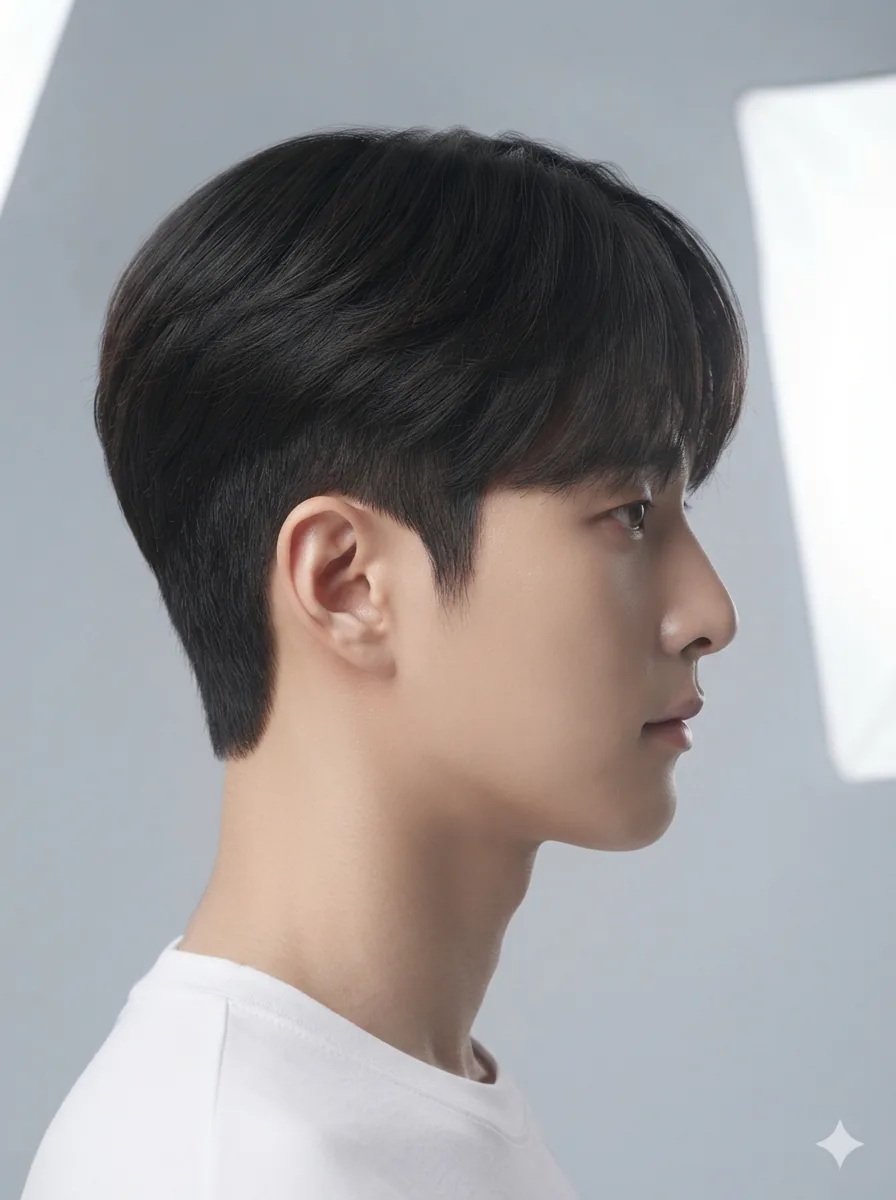
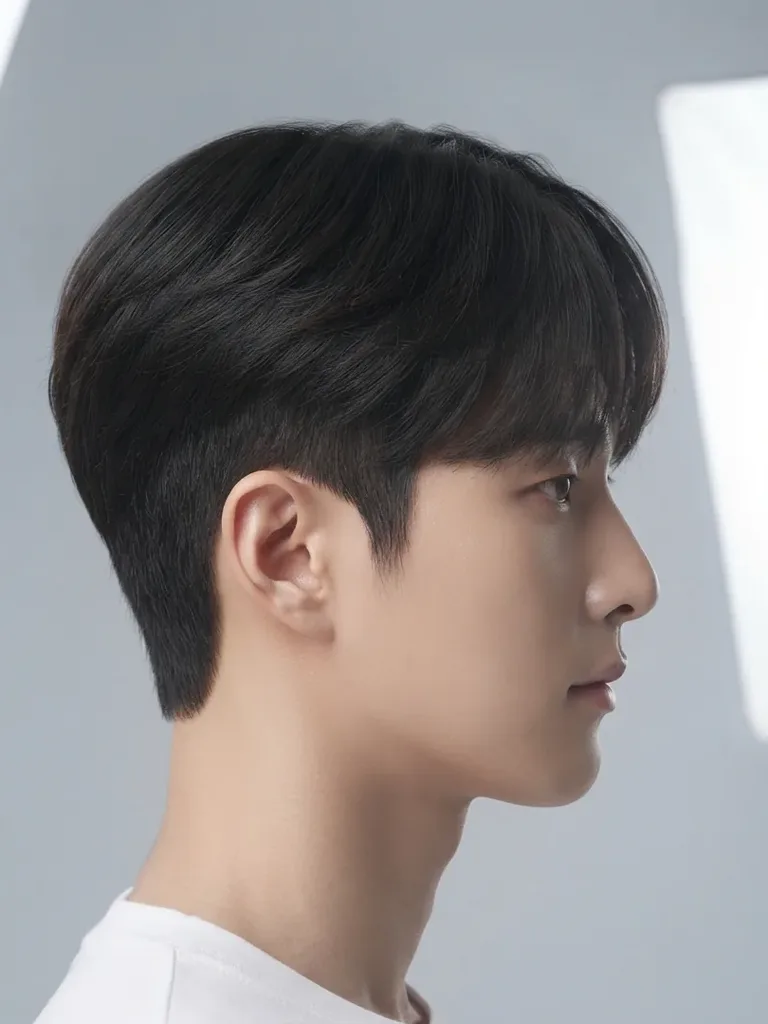
카드 정렬 재배치 + 모델컷 워터마크 크롭 + 결과 저장/크게보기
카드 정렬 (js/data.js)
- 추가된 순서(1~9) 대신 성격이 같은 것끼리 한 줄로 묶었다. 3x3 이라
  한 줄이 곧 하나의 묶음이 되고, 손님이 줄 단위로 비교할 수 있다.
    1줄 컷·정돈    : 크롭컷 / 투블럭 다운펌 / 슬릭백
    2줄 앞머리 연출 : 가르마펌 / 쉼표머리 / 리프컷
    3줄 전체 컬·볼륨: 애즈펌 / 히피펌 / 숏히피펌
  같은 줄에서는 왼쪽이 짧고 오른쪽으로 갈수록 길거나 컬이 강해진다.

모델컷 워터마크 제거 (public/images, 18장 전부)
- 생성 모델컷 우하단에 워터마크가 찍혀 있었다. 카드에 그대로 보일 뿐 아니라
  레퍼런스로 Gemini 에 전송되어 결과에까지 번질 수 있어 잘라냈다.
- 비율 축소가 아니라 크롭: 아래 10% 를 자르고 3:4 로 다시 맞춘 뒤 768x1024 출력.
  박스는 작아지고 얼굴은 상대적으로 커진다. 735KB -> 540KB.
- 5~9 는 무손실 PNG 원본에서 재생성, 1~4 는 원본이 없어 기존 webp 에서 재크롭.

레이아웃 (css/styles.css)
- .col-menu 를 1.6 -> 1.05 로 좁혔다. 가운데는 "고르는" 칸이고 실제로 들여다보는
  것은 좌우(손님 원본 / AI 결과)라 그쪽에 폭을 넘긴다. 모델컷은 크롭으로 얼굴이
  커져서 작아도 알아볼 수 있다.

결과 저장 · 크게 보기 (js/app.js)
- saveResult(): 결과를 lumain_<스타일>_<날짜시각>.jpg 로 내려받는다.
  테스트 기간 기록용. 워터마크는 픽셀에 구워져 있어 저장본에도 남는다.
- openLightbox(): 결과 이미지를 누르면 화면 가운데에 크게 띄운다. 여러 장이면
  ‹ › 와 좌우 방향키로 넘기고, ESC/바깥 클릭으로 닫는다. 닫으면 마지막으로 보던
  컷이 뒤 화면에도 반영된다. 실패한 컷은 건너뛴다.
- 라이트박스 안에도 저장 버튼을 둬서 크게 확인하고 바로 남길 수 있게 했다.

diff --git a/js/data.js b/js/data.js
@@ -42,6 +42,22 @@ const LumainData = (() => {
   //  각 스타일 = 정면(_1) + 측면(_2) 2장 한 세트.
   // =========================================================
   const STYLE_CARDS = [
+    /* 1줄 — 컷 · 정돈 : 컬 없이 형태와 길이로 가는 스타일 */
+    {
+      id: 'm_crop_cut',
+      name_ko: '크롭컷',
+      name_en: 'Crop Cut',
+      gender: 'male',
+      front_image: `${IMG}/5_1.webp`,
+      side_image: `${IMG}/5_2.webp`,
+      tags: { length: '숏', perm: '없음', difficulty: '쉬움' },
+      prompt_params: {
+        cut: 'short crop cut, tightly tapered faded sides and back',
+        top: 'short blunt fringe brought straight forward onto the forehead, choppy texture on top',
+        finish: 'matte, sharp, clean-cut',
+        keywords: ['crop cut', 'french crop', 'blunt fringe', 'matte texture'],
+      },
+    },
     {
       id: 'm_two_block_down',
       name_ko: '투블럭 다운펌',
@@ -58,6 +74,22 @@ const LumainData = (() => {
       },
     },
     {
+      id: 'm_slick_back',
+      name_ko: '슬릭백',
+      name_en: 'Slick Back',
+      gender: 'male',
+      front_image: `${IMG}/7_1.webp`,
+      side_image: `${IMG}/7_2.webp`,
+      tags: { length: '미디엄', perm: '없음', difficulty: '보통' },
+      prompt_params: {
+        cut: 'medium length on top with tightly tapered sides and back',
+        top: 'all hair combed straight back away from the face, forehead fully exposed',
+        finish: 'sleek, glossy, controlled',
+        keywords: ['slick back', 'combed back', 'exposed forehead', 'glossy'],
+      },
+    },
+    /* 2줄 — 앞머리 연출 : 가르마·앞머리 방향으로 인상을 바꾸는 스타일 */
+    {
       id: 'm_garma_perm',
       name_ko: '가르마펌',
       name_en: 'Side-Part Perm',
@@ -70,51 +102,6 @@ const LumainData = (() => {
         top: 'defined side part with S-curl, side-swept fringe and forehead-lifting volume',
         finish: 'soft flowing texture, dandy mood',
         keywords: ['side part perm', 'garma perm', 'side swept', 'volume'],
-      },
-    },
-    {
-      id: 'm_leaf_cut',
-      name_ko: '리프컷',
-      name_en: 'Leaf Cut',
-      gender: 'male',
-      front_image: `${IMG}/3_1.webp`,
-      side_image: `${IMG}/3_2.webp`,
-      tags: { length: '미디엄', perm: '리프펌', difficulty: '고난도' },
-      prompt_params: {
-        cut: 'layered leaf-shaped cut, airy textured layers, tapered sides',
-        top: 'light feathered fringe with movement, volume on the crown',
-        finish: 'airy, textured, trendy',
-        keywords: ['leaf cut', 'layered', 'textured', 'airy volume'],
-      },
-    },
-    {
-      id: 'm_as_perm',
-      name_ko: '애즈펌',
-      name_en: 'As Perm',
-      gender: 'male',
-      front_image: `${IMG}/4_1.webp`,
-      side_image: `${IMG}/4_2.webp`,
-      tags: { length: '미디엄', perm: '애즈펌', difficulty: '보통' },
-      prompt_params: {
-        cut: 'medium length with clean two-block sides',
-        top: 'natural loose S-curls throughout, softly curled side-swept front',
-        finish: 'natural wavy texture, relaxed volume',
-        keywords: ['as perm', 'natural curl', 's-curl', 'soft wave'],
-      },
-    },
-    {
-      id: 'm_crop_cut',
-      name_ko: '크롭컷',
-      name_en: 'Crop Cut',
-      gender: 'male',
-      front_image: `${IMG}/5_1.webp`,
-      side_image: `${IMG}/5_2.webp`,
-      tags: { length: '숏', perm: '없음', difficulty: '쉬움' },
-      prompt_params: {
-        cut: 'short crop cut, tightly tapered faded sides and back',
-        top: 'short blunt fringe brought straight forward onto the forehead, choppy texture on top',
-        finish: 'matte, sharp, clean-cut',
-        keywords: ['crop cut', 'french crop', 'blunt fringe', 'matte texture'],
       },
     },
     {
@@ -133,18 +120,34 @@ const LumainData = (() => {
       },
     },
     {
-      id: 'm_slick_back',
-      name_ko: '슬릭백',
-      name_en: 'Slick Back',
+      id: 'm_leaf_cut',
+      name_ko: '리프컷',
+      name_en: 'Leaf Cut',
       gender: 'male',
-      front_image: `${IMG}/7_1.webp`,
-      side_image: `${IMG}/7_2.webp`,
-      tags: { length: '미디엄', perm: '없음', difficulty: '보통' },
+      front_image: `${IMG}/3_1.webp`,
+      side_image: `${IMG}/3_2.webp`,
+      tags: { length: '미디엄', perm: '리프펌', difficulty: '고난도' },
       prompt_params: {
-        cut: 'medium length on top with tightly tapered sides and back',
-        top: 'all hair combed straight back away from the face, forehead fully exposed',
-        finish: 'sleek, glossy, controlled',
-        keywords: ['slick back', 'combed back', 'exposed forehead', 'glossy'],
+        cut: 'layered leaf-shaped cut, airy textured layers, tapered sides',
+        top: 'light feathered fringe with movement, volume on the crown',
+        finish: 'airy, textured, trendy',
+        keywords: ['leaf cut', 'layered', 'textured', 'airy volume'],
+      },
+    },
+    /* 3줄 — 전체 컬 · 볼륨 : 머리 전체에 컬이 들어가는 스타일 */
+    {
+      id: 'm_as_perm',
+      name_ko: '애즈펌',
+      name_en: 'As Perm',
+      gender: 'male',
+      front_image: `${IMG}/4_1.webp`,
+      side_image: `${IMG}/4_2.webp`,
+      tags: { length: '미디엄', perm: '애즈펌', difficulty: '보통' },
+      prompt_params: {
+        cut: 'medium length with clean two-block sides',
+        top: 'natural loose S-curls throughout, softly curled side-swept front',
+        finish: 'natural wavy texture, relaxed volume',
+        keywords: ['as perm', 'natural curl', 's-curl', 'soft wave'],
       },
     },
     {

diff --git a/js/app.js b/js/app.js
@@ -219,12 +219,16 @@
         ${r && r.error
           ? `<div class="result-empty"><div class="ic" style="color:var(--danger)">✕</div>
              <p style="color:var(--danger)">생성 실패<br><span class="muted">${escapeHtml(r.error).slice(0,90)}</span><br>크레딧은 차감되지 않았습니다.</p></div>`
-          : `<img class="stage-img" src="${r.dataUrl}" alt="예상 이미지">`}
+          : `<img class="stage-img zoomable" src="${r.dataUrl}" alt="예상 이미지" title="누르면 크게 봅니다">`}
       </div>
       <div class="stage-extra">
         ${S.results.length > 1 ? `<div class="result-strip">${S.results.map((x, i) => x.error
             ? `<div class="rs err ${i===S.shown?'on':''}" data-i="${i}">✕</div>`
             : `<div class="rs ${i===S.shown?'on':''}" data-i="${i}"><img src="${x.dataUrl}"></div>`).join('')}</div>` : ''}
+        ${r && !r.error ? `<div class="stage-tools">
+          <button class="tool-btn" id="btnZoom">⤢ 크게 보기</button>
+          <button class="tool-btn" id="btnSave">↓ 이미지 저장</button>
+        </div>` : ''}
         <div class="confirm-inline ${S.understood?'checked':''}" id="cUnderstand">
           <div class="box">✓</div>
           <div class="ct"><b>예상 이미지</b>이며 시술 조건에 따라 <b>실제 결과는 다를 수 있음</b>을 이해했습니다.</div>
@@ -240,6 +244,82 @@
     ci.onclick = () => { S.understood = ci.classList.toggle('checked'); const b = $('#btnConfirm'); if (b) b.disabled = !S.understood; };
     $('#btnRestart').onclick = () => { resetSession(true); renderStudio(); };
     $('#btnConfirm').onclick = onConfirm;
+    const zoom = $('#btnZoom'), save = $('#btnSave'), simg = $('.stage-img.zoomable');
+    if (zoom) zoom.onclick = () => openLightbox(S.shown);
+    if (simg) simg.onclick = () => openLightbox(S.shown);
+    if (save) save.onclick = () => saveResult(r);
+  }
+
+  // ---- 결과 저장 (테스트 기간 기록용) --------------------------
+  //  워터마크가 이미 픽셀에 구워져 있으므로 저장본에도 그대로 남는다.
+  //  2단계(백엔드)에서 이력이 서버에 쌓이면 이 버튼은 보조 수단이 된다.
+  function saveResult(r) {
+    if (!r || !r.dataUrl) return toast('저장할 이미지가 없습니다.');
+    const c = LumainData.getCard(r.cardId);
+    const name = String((c && (c.name_ko || c.name)) || 'style').replace(/[\\/:*?"<>|\s]+/g, '_');
+    const d = new Date(), p = n => String(n).padStart(2, '0');
+    const stamp = `${d.getFullYear()}${p(d.getMonth() + 1)}${p(d.getDate())}_${p(d.getHours())}${p(d.getMinutes())}${p(d.getSeconds())}`;
+    const a = document.createElement('a');
+    a.href = r.dataUrl;
+    a.download = `lumain_${name}_${stamp}.jpg`;   // 결과는 항상 JPEG (bakeWatermark)
+    document.body.appendChild(a); a.click(); a.remove();
+    toast('이미지를 저장했습니다.');
+  }
+
+  // ---- 결과 크게 보기 -----------------------------------------
+  //  오른쪽 칸이 좁아 손님에게 보여주기 어렵다. 화면 가운데에 크게 띄운다.
+  //  실패한 컷은 건너뛰고, 성공한 것들만 ‹ › 로 넘긴다.
+  function openLightbox(startIdx) {
+    const items = S.results.map((x, i) => ({ ...x, i })).filter(x => x.dataUrl);
+    if (!items.length) return toast('아직 볼 수 있는 결과가 없습니다.');
+    let pos = items.findIndex(x => x.i === startIdx);
+    if (pos < 0) pos = 0;
+
+    const bd = div('modal-backdrop lightbox');
+    bd.innerHTML = `
+      <div class="lb-wrap">
+        <div class="lb-head">
+          <div class="lb-name" id="lbName"></div>
+          <button class="tool-btn" id="lbClose">✕ 닫기</button>
+        </div>
+        <div class="lb-stage">
+          ${items.length > 1 ? '<button class="lb-nav prev" id="lbPrev">‹</button>' : ''}
+          <img id="lbImg" alt="AI 예상 이미지">
+          ${items.length > 1 ? '<button class="lb-nav next" id="lbNext">›</button>' : ''}
+        </div>
+        <div class="lb-foot">
+          <span class="muted" id="lbCount"></span>
+          <button class="tool-btn" id="lbSave">↓ 이미지 저장</button>
+        </div>
+      </div>`;
+    document.body.appendChild(bd);
+
+    const paint = () => {
+      const it = items[pos];
+      const c = LumainData.getCard(it.cardId);
+      $('#lbImg', bd).src = it.dataUrl;
+      $('#lbName', bd).textContent = c ? c.name : 'AI 예상 이미지';
+      $('#lbCount', bd).textContent = items.length > 1 ? `${pos + 1} / ${items.length}` : '';
+      // 닫았을 때 뒤 화면이 방금 보던 컷으로 맞아 있게 한다.
+      if (S.shown !== it.i) { S.shown = it.i; updateResult(); }
+    };
+    const move = d => { pos = (pos + d + items.length) % items.length; paint(); };
+    const onKey = e => {
+      if (e.key === 'Escape') close();
+      else if (e.key === 'ArrowLeft' && items.length > 1) move(-1);
+      else if (e.key === 'ArrowRight' && items.length > 1) move(1);
+    };
+    function close() { document.removeEventListener('keydown', onKey); bd.remove(); }
+
+    document.addEventListener('keydown', onKey);
+    $('#lbClose', bd).onclick = close;
+    bd.onclick = e => { if (e.target === bd) close(); };
+    $('#lbSave', bd).onclick = () => saveResult(items[pos]);
+    if (items.length > 1) {
+      $('#lbPrev', bd).onclick = () => move(-1);
+      $('#lbNext', bd).onclick = () => move(1);
+    }
+    paint();
   }
 
   // ================= 생성 =================

diff --git a/css/styles.css b/css/styles.css
@@ -117,9 +117,10 @@ button { font-family: inherit; cursor: pointer; border: none; font-weight: 600; 
 .studio { display: flex; width: 100%; height: 100%; gap: 1px; background: var(--line); animation: fade .3s ease; }
 .col { background: var(--bg); display: flex; flex-direction: column; min-width: 0; }
 .col-original { flex: 1 1 0; }
-/* 가운데 메뉴는 카드가 3열로 깔리므로 양옆보다 넉넉히 가져간다.
-   (1.12 이던 시절엔 2열이라 좁아도 됐다 — 3열로 바꾸면서 함께 넓힘) */
-.col-menu { flex: 1.6 1 0; }
+/* 가운데 메뉴(모델컷)는 "고르는" 칸이라 작아도 되고, 좌우의 손님 원본 /
+   AI 결과가 실제로 들여다보는 칸이다. 그래서 메뉴를 좁혀 양옆에 폭을 넘긴다.
+   모델컷은 워터마크를 잘라내며 얼굴이 커졌으므로 작아도 알아보기 충분하다. */
+.col-menu { flex: 1.05 1 0; }
 .col-result { flex: 1 1 0; }
 .col-head { flex: 0 0 auto; display: flex; align-items: baseline; justify-content: space-between; gap: 10px;
   padding: clamp(13px,1.9vh,18px) clamp(14px,1.3vw,20px) 11px; border-bottom: 1px solid var(--line); }
@@ -150,6 +151,17 @@ button { font-family: inherit; cursor: pointer; border: none; font-weight: 600; 
 /* 결과는 통일된 3:4 세로컷(generate.js normalizePortrait). 남는 자투리는 검은색이 아니라
    스튜디오 라이트그레이로 채워 배경과 이어지게 한다(좌우 검은 여백 방지). */
 .stage-img { position: absolute; inset: 0; width: 100%; height: 100%; object-fit: contain; background: #d7dbe0; }
+/* 결과 이미지는 눌러서 크게 볼 수 있다 (오른쪽 칸이 좁아 손님에게 보여주기 어렵다) */
+.stage-img.zoomable { cursor: zoom-in; }
+
+/* 결과 도구 버튼 (크게 보기 · 저장) — 확정 버튼보다 한 단계 낮은 위계 */
+.stage-tools { display: flex; gap: 8px; }
+.tool-btn {
+  flex: 1; background: transparent; color: var(--text-dim);
+  border: 1px solid var(--line-2); padding: 9px 10px; font-weight: 500;
+  font-family: var(--mono); font-size: 10.5px; letter-spacing: .1em; text-transform: uppercase;
+}
+.tool-btn:hover { border-color: var(--accent); color: var(--accent-2); }
 
 /* idle 상태 — 촬영 진입 */
 .stage-idle { text-align: center; padding: 30px; }
@@ -430,6 +442,25 @@ button { font-family: inherit; cursor: pointer; border: none; font-weight: 600; 
 .modal-backdrop { position: fixed; inset: 0; background: rgba(5,6,8,.72); backdrop-filter: blur(6px); display: grid; place-items: center; z-index: 100; animation: fade .2s; padding: 20px; }
 .modal { background: var(--surface); border: 1px solid var(--line-2); padding: 30px 32px; width: min(580px, 100%); max-height: 90vh; overflow-y: auto; box-shadow: var(--shadow); }
 .modal h2 { font-size: 21px; margin-bottom: 6px; font-weight: 700; letter-spacing: -0.03em; }
+
+/* 결과 크게 보기 — 손님에게 보여주는 화면이라 이미지를 최대한 키우고
+   장식은 최소로. 여러 장 생성했으면 ‹ › 로 넘긴다. */
+.lightbox { padding: clamp(12px, 3vh, 28px); }
+.lb-wrap { width: min(720px, 100%); display: flex; flex-direction: column; gap: 12px; }
+.lb-head { display: flex; align-items: center; justify-content: space-between; gap: 14px; }
+.lb-name { font-size: 14px; font-weight: 600; letter-spacing: .14em; text-transform: uppercase; color: var(--text); }
+.lb-head .tool-btn, .lb-foot .tool-btn { flex: 0 0 auto; }
+.lb-stage { position: relative; display: grid; place-items: center; background: #d7dbe0; border: 1px solid var(--line-2); }
+.lb-stage img { display: block; max-width: 100%; max-height: 72vh; }
+.lb-nav {
+  position: absolute; top: 50%; transform: translateY(-50%);
+  width: 42px; height: 62px; font-size: 24px; line-height: 1; font-weight: 400;
+  background: rgba(10,11,13,.66); border: 1px solid var(--line-2); color: var(--text);
+}
+.lb-nav:hover { border-color: var(--accent); color: var(--accent-2); background: rgba(10,11,13,.86); }
+.lb-nav.prev { left: 10px; }
+.lb-nav.next { right: 10px; }
+.lb-foot { display: flex; align-items: center; justify-content: space-between; gap: 14px; }
 .modal .sub { color: var(--text-dim); font-size: 13.5px; margin-bottom: 22px; font-weight: 300; }
 .modal-actions { display: flex; justify-content: flex-end; gap: 12px; margin-top: 26px; }
 

diff --git a/README.md b/README.md
@@ -117,6 +117,8 @@
 | 헤어라인 자연 블렌딩 (얹힌 느낌 방지) | ✅ `buildPrompt()` |
 | 3:4 프레임 통일 + 검은 여백 제거 | ✅ `normalizePortrait()` |
 | 워터마크 굽기(baked-in, 캡처 따라감) | ✅ `bakeWatermark()` |
+| 결과 크게 보기(누르면 가운데 확대, ‹ › 전환) | ✅ `openLightbox()` |
+| 결과 이미지 저장 — **테스트 기간 기록용** | ✅ `saveResult()` |
 | 하단 고정 고지 문구 | ✅ 생성/결과 화면 하단 바 |
 | "예상 이미지임을 이해" 확인 체크 | ✅ 결과 화면, 체크 전 시술 불가 |
 | 개인정보 동의(건너뛰기 불가)·미성년자 보호자 동의 | ✅ 동의 화면 |
@@ -174,12 +176,21 @@ HairAi/
 | `prompt_params` | `cut` / `top` / `finish` / `keywords` — **AI 지시문 본문**. 여기가 재현도를 좌우합니다 |
 | `gender` | `male` / `female`. 스튜디오 메뉴는 현재 `male` 만 노출 (`app.js` `listCards({gender:'male'})`) |
 
-모델컷은 WebP 로 넣으세요. 900px 폭 / 품질 82 기준 장당 30~65KB 면 충분합니다.
-현재 18장(9종 × 정면/측면) 합계 **735KB** — PNG 원본이었다면 28MB 입니다.
+카드 정렬은 **성격이 같은 것끼리 한 줄**입니다 (`STYLE_CARDS` 배열 순서 = 화면 순서).
+1줄 컷·정돈 / 2줄 앞머리 연출 / 3줄 전체 컬·볼륨. 카드를 추가하면 해당 줄에 넣으세요.
+
+#### 모델컷 넣는 법
+
+WebP, **768×1024(3:4)**, 품질 82 기준 장당 20~48KB. 현재 18장 합계 **540KB**.
 
 ```bash
-magick 원본.png -quality 82 public/images/5_1.webp
+# 아래 10% 를 잘라 우하단 생성 워터마크를 제거하고 3:4 로 다시 맞춘다.
+# (비율 축소가 아니라 크롭이라 얼굴이 상대적으로 커진다)
+magick 원본.png -crop 810x1080+43+0 +repage -resize 768x1024 -quality 82 public/images/5_1.webp
 ```
+
+> AI 생성 모델컷은 우하단에 워터마크가 찍혀 나옵니다. 그대로 두면 카드에도 보이고,
+> **레퍼런스로 Gemini 에 전송되어 결과에까지 번질 수 있으므로** 반드시 잘라내세요.
 
 PNG 원본은 `_original_images/` 에 보관합니다 (`.gitignore` 처리되어 배포에 포함되지 않음).
 
